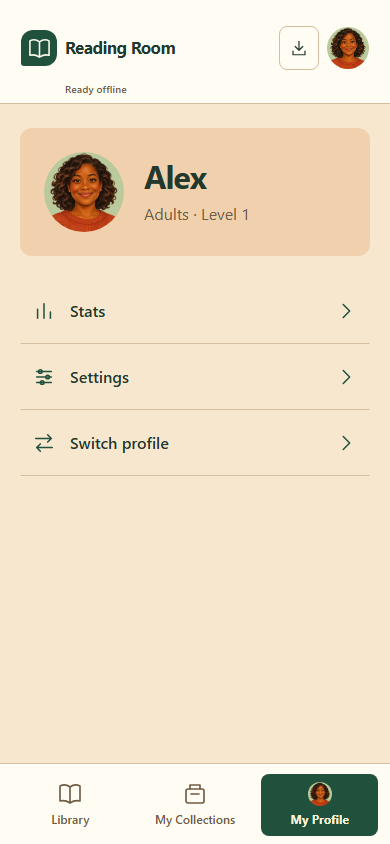
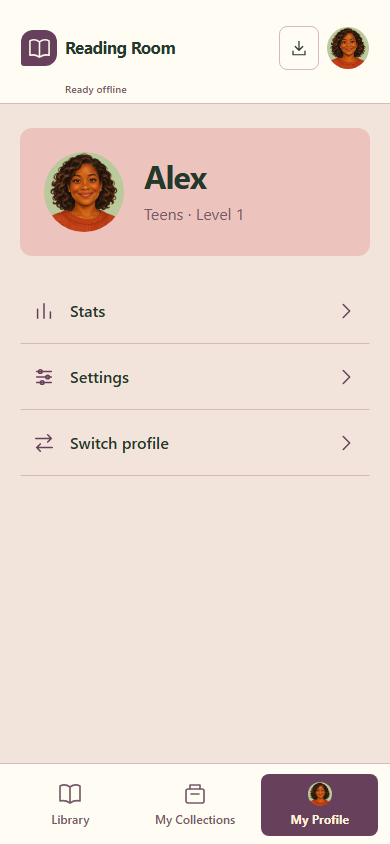
Replace placeholder stories with Sam and the Red Bag

diff --git a/src/app.js b/src/app.js
@@ -127,11 +127,11 @@ function libraryView() {
   const continued = reading.map(r => state.books.find(b => b.id === r.bookId)).find(Boolean);
   const levels = [...new Set(state.books.map(b => b.readingLevel))];
   const books = filteredBooks();
-  return `<section class="intro"><h1 class="serif">${t('A little reading. A world to discover.')}</h1><p class="muted">${t('Short stories, at your own pace.')}</p><p class="greeting">${t('Welcome back')}, ${e(p.name)}.</p></section><div class="library-content"><div class="library-main">${continued ? `<section class="continue-section"><img src="${e(continued.cover)}" alt="" width="72" height="96"><div><p class="small muted">${t('Continue reading')}</p><h3>${e(continued.title)}</h3><button data-action="details" data-id="${continued.id}">${t('Continue')}${icon('arrow')}</button></div></section>` : ''}<div class="section-heading"><h2>${t('Browse books')}</h2><span class="book-count" id="book-count">${books.length} ${t('books')}</span></div><div class="search">${icon('search')}<input id="search" type="search" placeholder="${t('Search by title…')}" aria-label="${t('Search books')}" value="${e(f.search || '')}"></div><details class="filter-panel" ${state.filtersOpen ? 'open' : ''}><summary>${icon('settings')} ${t('Filters')}</summary><div class="filter-grid">${field('Audience', `<select data-filter="audience">${option('all','All audiences',f.audience || p.audience)}${[['kids','Kids'],['teens','Teens'],['adults','Adults']].map(([v,l])=>option(v,l,f.audience || p.audience)).join('')}</select>`)}${field('Reading level', `<select data-filter="level">${option('all','All levels',f.level ?? p.preferences.level)}${levels.map(l=>option(l,`${t('Level')} ${l}`,f.level ?? p.preferences.level)).join('')}${option('range','Level range',f.level)}</select>`)}${field('Status', `<select data-filter="status">${option('','All statuses',f.status)}${[['not-started','Not started'],['in-progress','In progress'],['finished','Finished']].map(([v,l])=>option(v,l,f.status)).join('')}</select>`)}${field('Category', `<select data-filter="category">${option('','All categories',f.category)}${[...new Set(state.books.flatMap(b=>b.categories))].map(c=>option(c,c,f.category)).join('')}</select>`)}${field('Series', `<select data-filter="series">${option('','All series',f.series)}${[...new Set(state.books.map(b=>b.seriesId))].map(c=>option(c,c,f.series)).join('')}</select>`)}${field('Sort by', `<select data-filter="sort">${[['title','Title A–Z'],['level-up','Level ascending'],['level-down','Level descending'],['recent','Recently opened'],['status','Status']].map(([v,l])=>option(v,l,f.sort)).join('')}</select>`)}${f.level === 'range' ? `${field('Minimum level', `<input data-filter="min" type="number" min="1" max="99" value="${e(f.min || 1)}">`)}${field('Maximum level', `<input data-filter="max" type="number" min="1" max="99" value="${e(f.max || 99)}">`)}` : ''}</div></details><div class="book-grid" id="books">${books.map(bookCard).join('')}</div><div id="no-books" ${books.length ? 'hidden' : ''} class="empty"><h3>${t('No books match these filters.')}</h3>${button('Clear filters','clear-filters')}</div><div class="sample-note">${icon('book')}<p><strong>${t('Sample library')}</strong><br>${t('Two sample books to try. More stories can be added with future updates.')}</p></div></div><aside class="library-aside"><h2>${t('Choose a story. Take your time. Make it yours.')}</h2><p>${t('Sample content for trying the app; not a commissioned reading programme.')}</p><div class="divider"><p>${t('Saved on this device')}</p><p>${t('Your profile stays on this device. No account needed.')}</p><button class="text-button small" data-action="stats">${t('Check your stats')}${icon('arrow')}</button></div></aside></div>`;
+  return `<section class="intro"><h1 class="serif">${t('A little reading. A world to discover.')}</h1><p class="muted">${t('Short stories, at your own pace.')}</p><p class="greeting">${t('Welcome back')}, ${e(p.name)}.</p></section><div class="library-content"><div class="library-main">${continued ? `<section class="continue-section"><img src="${e(continued.cover)}" alt="" width="72" height="96"><div><p class="small muted">${t('Continue reading')}</p><h3>${e(continued.title)}</h3><button data-action="details" data-id="${continued.id}">${t('Continue')}${icon('arrow')}</button></div></section>` : ''}<div class="section-heading"><h2>${t('Browse books')}</h2><span class="book-count" id="book-count">${books.length} ${t('books')}</span></div><div class="search">${icon('search')}<input id="search" type="search" placeholder="${t('Search by title…')}" aria-label="${t('Search books')}" value="${e(f.search || '')}"></div><details class="filter-panel" ${state.filtersOpen ? 'open' : ''}><summary>${icon('settings')} ${t('Filters')}</summary><div class="filter-grid">${field('Audience', `<select data-filter="audience">${option('all','All audiences',f.audience || p.audience)}${[['kids','Kids'],['teens','Teens'],['adults','Adults']].map(([v,l])=>option(v,l,f.audience || p.audience)).join('')}</select>`)}${field('Reading level', `<select data-filter="level">${option('all','All levels',f.level ?? p.preferences.level)}${levels.map(l=>option(l,`${t('Level')} ${l}`,f.level ?? p.preferences.level)).join('')}${option('range','Level range',f.level)}</select>`)}${field('Status', `<select data-filter="status">${option('','All statuses',f.status)}${[['not-started','Not started'],['in-progress','In progress'],['finished','Finished']].map(([v,l])=>option(v,l,f.status)).join('')}</select>`)}${field('Category', `<select data-filter="category">${option('','All categories',f.category)}${[...new Set(state.books.flatMap(b=>b.categories))].map(c=>option(c,c,f.category)).join('')}</select>`)}${field('Series', `<select data-filter="series">${option('','All series',f.series)}${[...new Set(state.books.map(b=>b.seriesId))].map(c=>option(c,c,f.series)).join('')}</select>`)}${field('Sort by', `<select data-filter="sort">${[['title','Title A–Z'],['level-up','Level ascending'],['level-down','Level descending'],['recent','Recently opened'],['status','Status']].map(([v,l])=>option(v,l,f.sort)).join('')}</select>`)}${f.level === 'range' ? `${field('Minimum level', `<input data-filter="min" type="number" min="1" max="99" value="${e(f.min || 1)}">`)}${field('Maximum level', `<input data-filter="max" type="number" min="1" max="99" value="${e(f.max || 99)}">`)}` : ''}</div></details><div class="book-grid" id="books">${books.map(bookCard).join('')}</div><div id="no-books" ${books.length ? 'hidden' : ''} class="empty"><h3>${t('No books match these filters.')}</h3>${button('Clear filters','clear-filters')}</div></div><aside class="library-aside"><h2>${t('Choose a story. Take your time. Make it yours.')}</h2><div class="divider"><p>${t('Saved on this device')}</p><p>${t('Your profile stays on this device. No account needed.')}</p><button class="text-button small" data-action="stats">${t('Check your stats')}${icon('arrow')}</button></div></aside></div>`;
 }
 function detailView() {
   const b = book(), p = progress(b);
-  return `${backButton('detail-back')}<section class="book-detail"><img class="cover detail-cover" src="${e(b.cover)}" alt="${e(b.title)}" width="480" height="640"><div class="detail-copy"><span class="badge">${t('Sample book')}</span><h1 class="serif">${e(b.title)}</h1><p class="muted">${e(b.subtitle)}</p><div class="detail-facts"><span>${t('Level')} ${b.readingLevel}</span><span>${b.minutes} ${t('minutes')}</span><span>${b.pages.length} ${t('Pages').toLocaleLowerCase()}</span></div><p class="description">${e(b.description)}</p><p class="small muted">${e(b.categories.join(' · '))} · ${e(b.seriesId)}</p><p><span class="badge">${statusLabel(p?.status)}</span></p><div class="actions">${button(p?.status === 'finished' ? 'Read again' : p ? 'Continue' : 'Start reading', p?.status === 'finished' ? 'restart' : 'start', 'primary')}${p && p.status !== 'finished' ? button('Start again','restart') : ''}${p?.status === 'finished' ? button('View results','stats') : ''}</div><button class="text-button" data-action="add-collection" data-id="${b.id}">${icon('plus')}${t('Add to collection')}</button><p class="small muted divider">${t('Sample content for trying the app; not a commissioned reading programme.')}</p></div></section>`;
+  return `${backButton('detail-back')}<section class="book-detail"><img class="cover detail-cover" src="${e(b.cover)}" alt="${e(b.title)}" width="480" height="640"><div class="detail-copy"><span class="badge">${b.audiences.map(a => t({kids:'Kids',teens:'Teens',adults:'Adults'}[a])).join(' &middot; ')}</span><h1 class="serif">${e(b.title)}</h1><p class="muted">${e(b.subtitle)}</p><div class="detail-facts"><span>${t('Level')} ${b.readingLevel}</span><span>${b.minutes} ${t('minutes')}</span><span>${b.pages.length} ${t('Pages').toLocaleLowerCase()}</span></div><p class="description">${e(b.description)}</p><p class="small muted">${e(b.categories.join(' · '))} · ${e(b.seriesId)}</p><p><span class="badge">${statusLabel(p?.status)}</span></p><div class="actions">${button(p?.status === 'finished' ? 'Read again' : p ? 'Continue' : 'Start reading', p?.status === 'finished' ? 'restart' : 'start', 'primary')}${p && p.status !== 'finished' ? button('Start again','restart') : ''}${p?.status === 'finished' ? button('View results','stats') : ''}</div><button class="text-button" data-action="add-collection" data-id="${b.id}">${icon('plus')}${t('Add to collection')}</button></div></section>`;
 }
 function getAttempt(create = true) {
   const b = book(), page = currentPage(), run = progress(b)?.runId;

diff --git a/sw.js b/sw.js
@@ -1,4 +1,4 @@
-const VERSION = 'reading-room-assets-v3-characters';
+const VERSION = 'reading-room-assets-v4-sam-red-bag';
 const ASSETS = [
   './', './index.html', './manifest.webmanifest',
   './assets/icon.svg', './assets/icon-192.png', './assets/icon-512.png',
@@ -6,7 +6,23 @@ const ASSETS = [
   './assets/avatars/character-1.webp', './assets/avatars/character-2.webp', './assets/avatars/character-3.webp',
   './assets/avatars/character-4.webp', './assets/avatars/character-5.webp', './assets/avatars/character-6.webp',
   './assets/avatars/character-7.webp', './assets/avatars/character-8.webp', './assets/avatars/character-9.webp',
-  './content/catalogue.json', './content/the-red-bag/book.json', './content/the-red-bag/cover.svg', './content/a-day-at-the-pond/book.json', './content/a-day-at-the-pond/cover.svg'
+  './content/catalogue.json',
+  './content/sam-and-the-red-bag/book.json',
+  './content/sam-and-the-red-bag/front-cover.webp',
+  './content/sam-and-the-red-bag/page-01.webp',
+  './content/sam-and-the-red-bag/page-02.webp',
+  './content/sam-and-the-red-bag/page-03.webp',
+  './content/sam-and-the-red-bag/page-04.webp',
+  './content/sam-and-the-red-bag/page-05.webp',
+  './content/sam-and-the-red-bag/page-06.webp',
+  './content/sam-and-the-red-bag/page-07.webp',
+  './content/sam-and-the-red-bag/page-08.webp',
+  './content/sam-and-the-red-bag/page-09.webp',
+  './content/sam-and-the-red-bag/page-10.webp',
+  './content/sam-and-the-red-bag/page-11.webp',
+  './content/sam-and-the-red-bag/page-12.webp',
+  './content/sam-and-the-red-bag/page-13.webp',
+  './content/sam-and-the-red-bag/page-14.webp'
 ];
 self.addEventListener('install', event => {
   // Activation waits for explicit user action on updates. No user data is touched.

diff --git a/src/content.js b/src/content.js
@@ -4,7 +4,7 @@ export async function loadCatalogue() {
   const paths = await response.json();
   return Promise.all(paths.map(async path => {
     const response = await fetch(path);
-    if (!response.ok) throw new Error('A sample book could not be downloaded. Please reload while online.');
+    if (!response.ok) throw new Error('A book could not be downloaded. Please reload while online.');
     const book = await response.json();
     book.cover = new URL(book.cover, new URL(path, location.href)).href;
     for (const page of book.pages) {

diff --git a/README.md b/README.md
@@ -1,6 +1,6 @@
 # Reading Room
 
-**Status:** Working first release with two sample books; see `IMPLEMENTATION.md` for verification and remaining release checks.  
+**Status:** Working app with Sam and the Red Bag (Teens, Level 1); see `IMPLEMENTATION.md` for verification and remaining release checks.
 **Product:** Installable, offline-first reading practice web app (PWA) for children, teenagers and adults.  
 **Audience for these documents:** Contributors and product owner.
 
@@ -68,3 +68,7 @@ The public repository deploys to **https://englishindoses.github.io/reading-room
 The user authorized implementation after this design handoff. Proposed defaults are marked `PROPOSED` and can be changed later. Avoid reopening settled decisions unless technically impossible or contradictory.
 
 The first release can ship with a *small sample* of book/activity content, but the app structure must support books with bespoke page sequences and reusable activity components. No server, accounts, subscriptions or cloud sync in v1.
+
+## Current story
+
+The only bundled book is **Sam and the Red Bag**, for **Teens, Level 1**. Its 14 illustrated pages preserve the text and order of the supplied revised A4 PDF. Optimized WebP copies of the cover and illustrations are shipped; print PDFs and original artwork stay outside the app build. The previous placeholder packages have been removed; historical user records are retained. No exercises have been added to this story.
